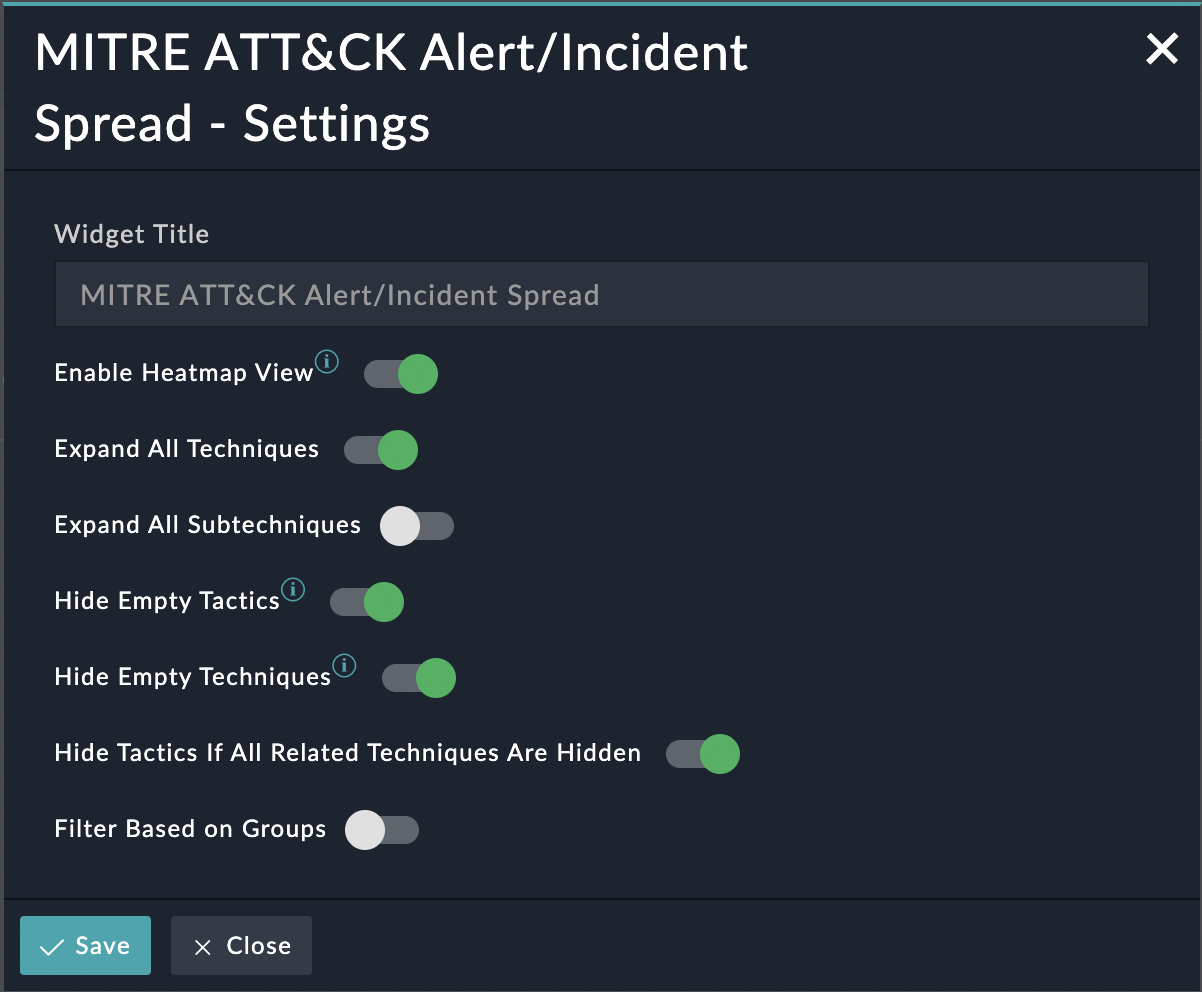
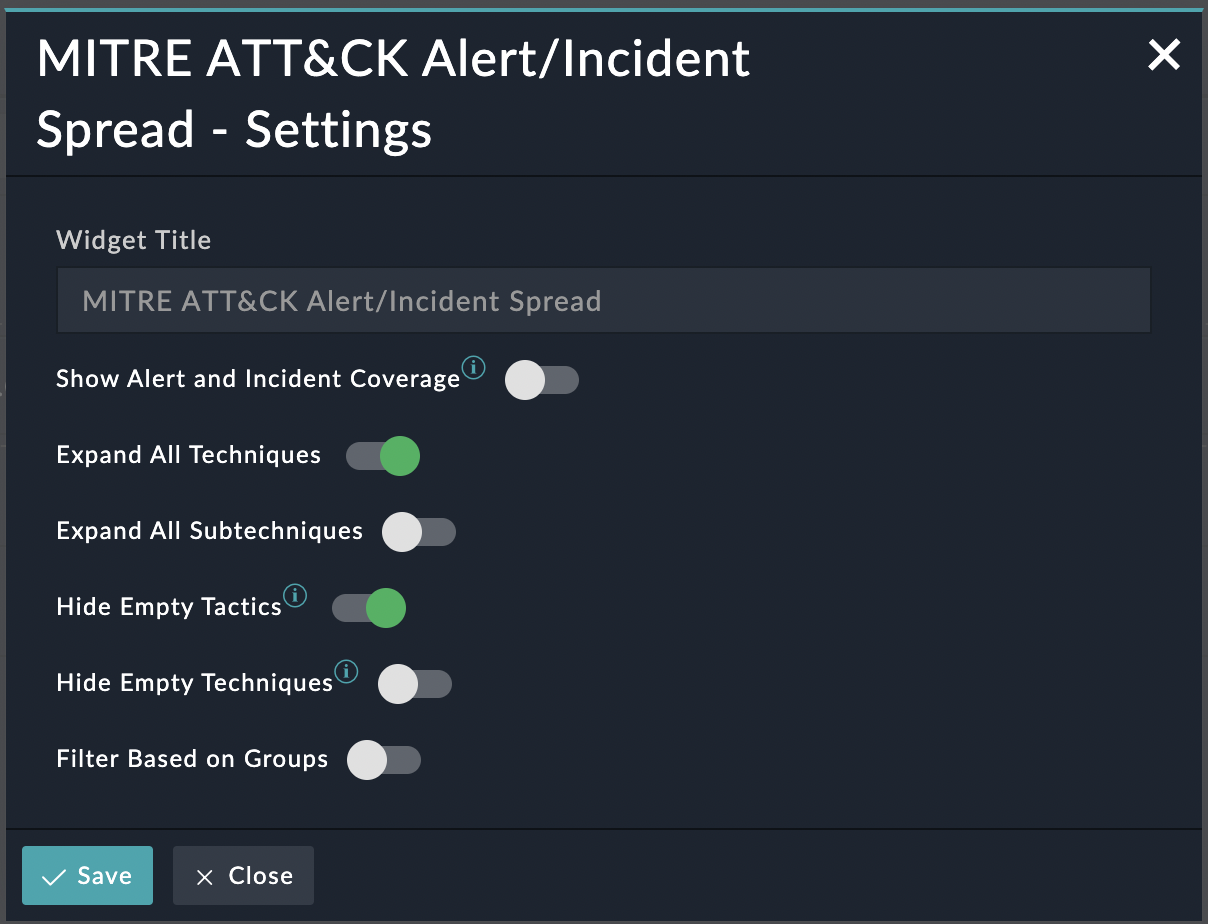
Doc updates

diff --git a/docs/usage.md b/docs/usage.md
@@ -9,7 +9,16 @@
 <img src="https://raw.githubusercontent.com/fortinet-fortisoar/widget-mitre-attack-spread/develop/docs/media/edit_view.png" alt="Editing the MITRE ATT&CK Alert Incident Spread Widget" style="border: 1px solid #A9A9A9; border-radius: 4px; padding: 10px; display: block; margin-left: auto; margin-right: auto;">
 
 **MITRE ATT&CK Alert Incident Spread Widget - Dashboard View**:
+
 <img src="https://raw.githubusercontent.com/fortinet-fortisoar/widget-mitre-attack-spread/develop/docs/media/dashboard_view.png" alt="Viewing the MITRE ATT&CK Alert Incident Spread Widget on the Dashboard page" style="border: 1px solid #A9A9A9; border-radius: 4px; padding: 10px; display: block; margin-left: auto; margin-right: auto;">
+
+**MITRE ATT&CK Alert Incident Spread Widget - Dashboard View with Alert and Incident Coverage**:
+
+<img src="https://raw.githubusercontent.com/fortinet-fortisoar/widget-mitre-attack-spread/develop/docs/media/dashboard_view_heatmap.png" alt="Viewing the MITRE ATT&CK Alert Incident Spread Widget on the Dashboard page with Alert and Incident Coverage" style="border: 1px solid #A9A9A9; border-radius: 4px; padding: 10px; display: block; margin-left: auto; margin-right: auto;">
+
+**MITRE ATT&CK Alert Incident Spread Widget - Detail View**:
+
+<img src="https://raw.githubusercontent.com/fortinet-fortisoar/widget-mitre-attack-spread/develop/docs/media/detail_view.png" alt="Viewing the MITRE ATT&CK Alert Incident Spread Widget on the Incident detail page" style="border: 1px solid #A9A9A9; border-radius: 4px; padding: 10px; display: block; margin-left: auto; margin-right: auto;">
 
 Prerequisites to using the MITRE ATT&CK Alert Incident Spread Widget:
 

diff --git a/docs/setup.md b/docs/setup.md
@@ -15,10 +15,9 @@ Provide the following details to customize the MITRE ATT&CK Alert Incident Sprea
 | Fields     | Description                              |
 | ---------- | ---------------------------------------- |
 | Title      | Specify the optional custom heading or title for the widget. |
-| Enable Heatmap View | An optional toggle to highlight all Alerts and Incidents available to view in the widget. |
+| Show Alert and Incident Coverage | An optional toggle to highlight all Alerts and Incidents available to view in the widget in red hue. |
 | Expand All Techniques | An optional toggle to expand all MITRE ATT&CK Technique cells for a broader view of its related records. |
 | Enable All Subtechniques | An optional toggle to expand all MITRE ATT&CK Subtechnique cells for a broader view of its related records. |
 | Hide Empty Tactics | An optional toggle to hide all MITRE ATT&CK Tactics from view if they do not have any related Techniques. |
 | Hide Empty Techniques | An optional toggle to hide all MITRE ATT&CK Techniques from view if they do not have any related Subtechniques, Alerts, or Incidents. |
-| Hide Tactics If All Related Techniques Are Hidden | An optional toggle to hide MITRE ATT&CK Tactics if all of its related Techniques are hidden by other filters enforced by the widget. |
 | Filter Based On Groups | An optional toggle to show/hide MITRE ATT&CK Techniques based on the selected MITRE ATT&CK Groups. Techniques will only be displayed if they are related to at least one of the selected Groups. |

diff --git a/README.md b/README.md
@@ -15,6 +15,8 @@
 
 The MITRE ATT&CK Alert/Incident Spread Widget provides a consolidated look into Alert and Incident threats under MITRE ATT&CK records. You can seamlessly view and Alert or Incident record related to MITRE ATT&CK Techniques and Subtechniques with a table view and access all of the mentioned records in detail directly from the widget. Requires MITRE ATT&CK Enrichment Framework installed and MITRE ATT&CK records ingested into FortiSOAR via MITRE ATT&CK Connector.
 
+**Note**: Preview releases are a beta release. This means that release is intended to get feedback and might not be best suited for production level deployments. The functionality might change in backward-incompatible ways or have limited support. A beta release is not subject to any SLA, Quality Assurance or deprecation policy. Feature availability and support for preview releases will continue to improve as the solution/feature matures.
+
 
 
 ## Next Steps
